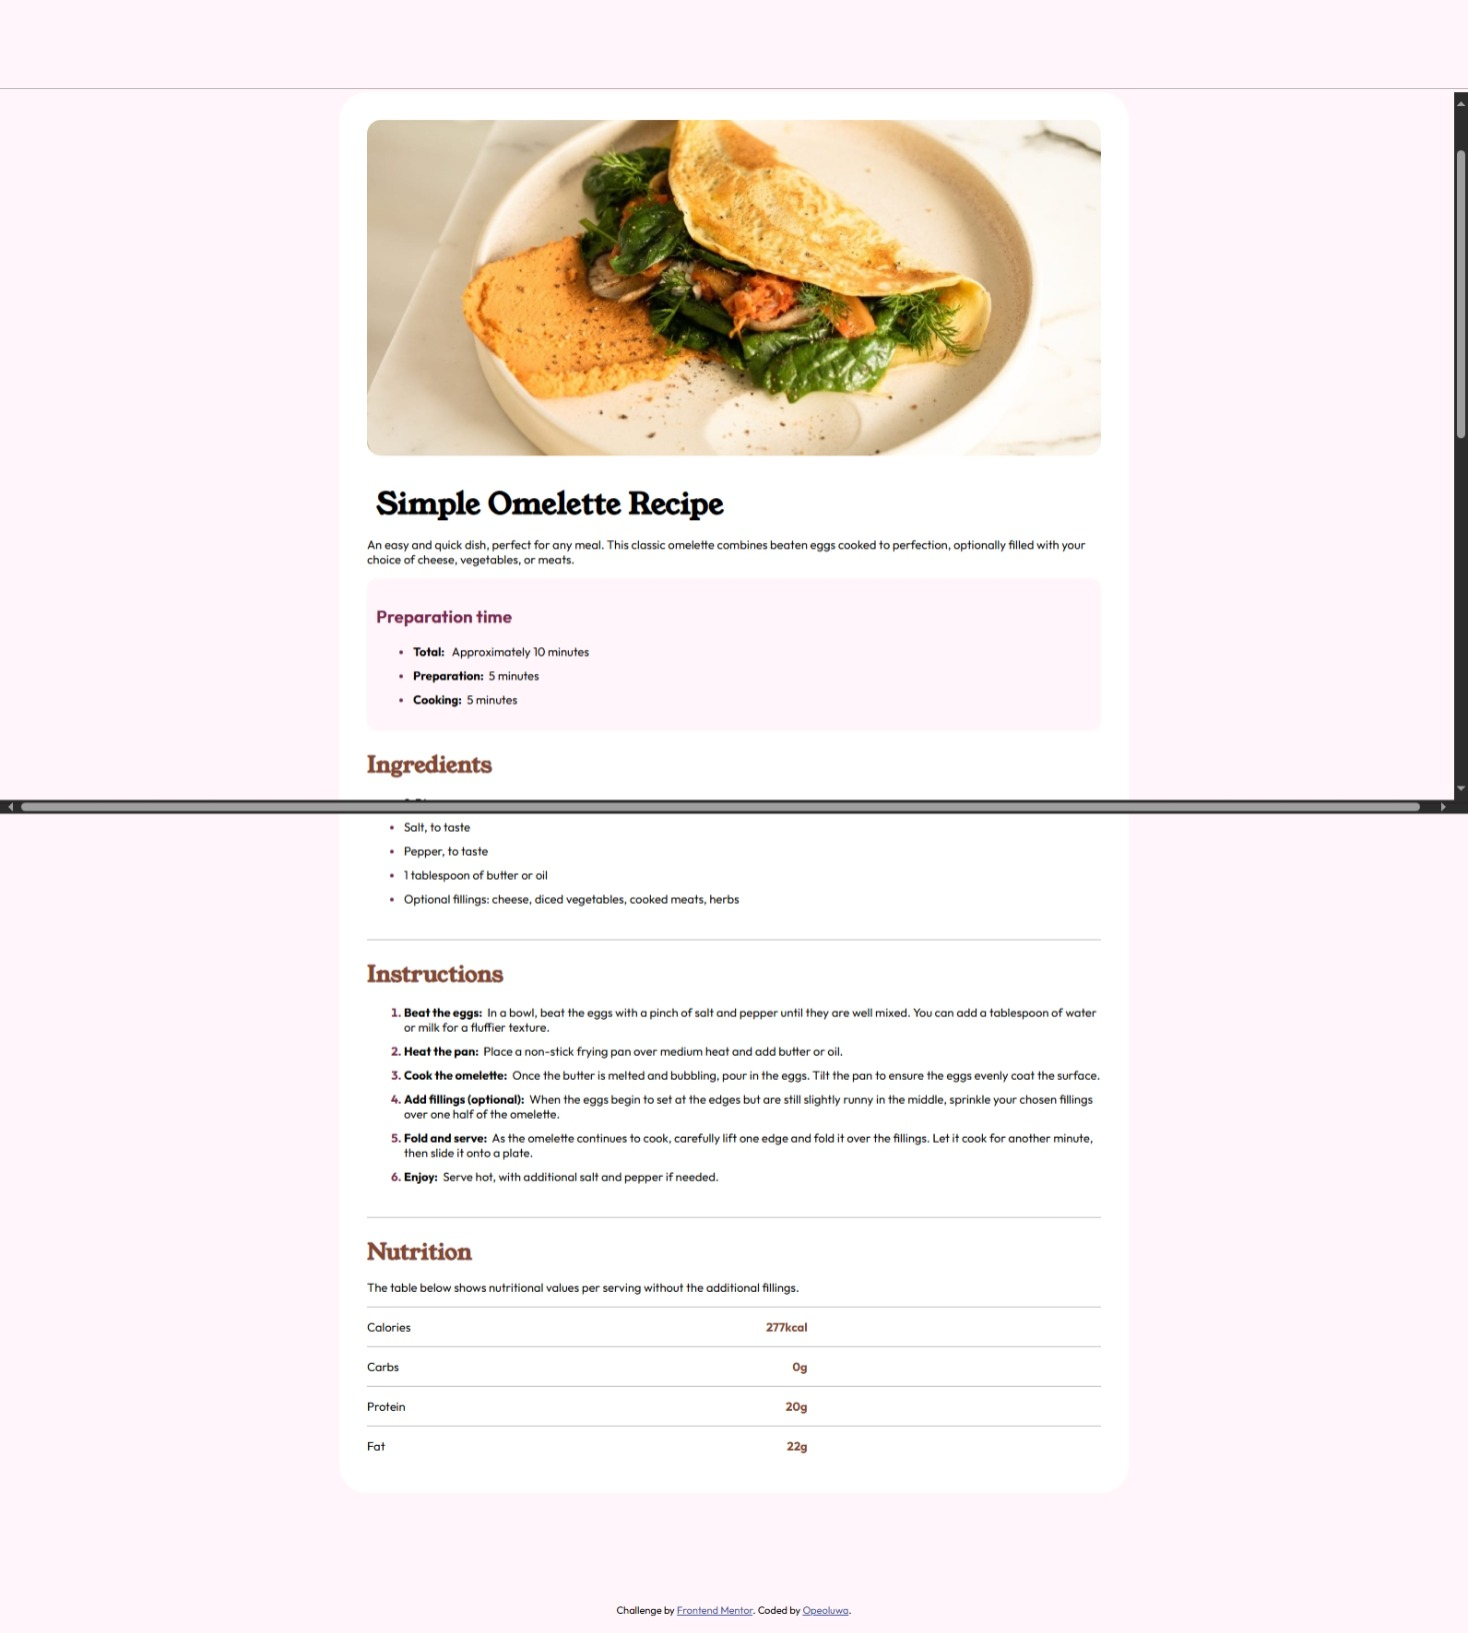
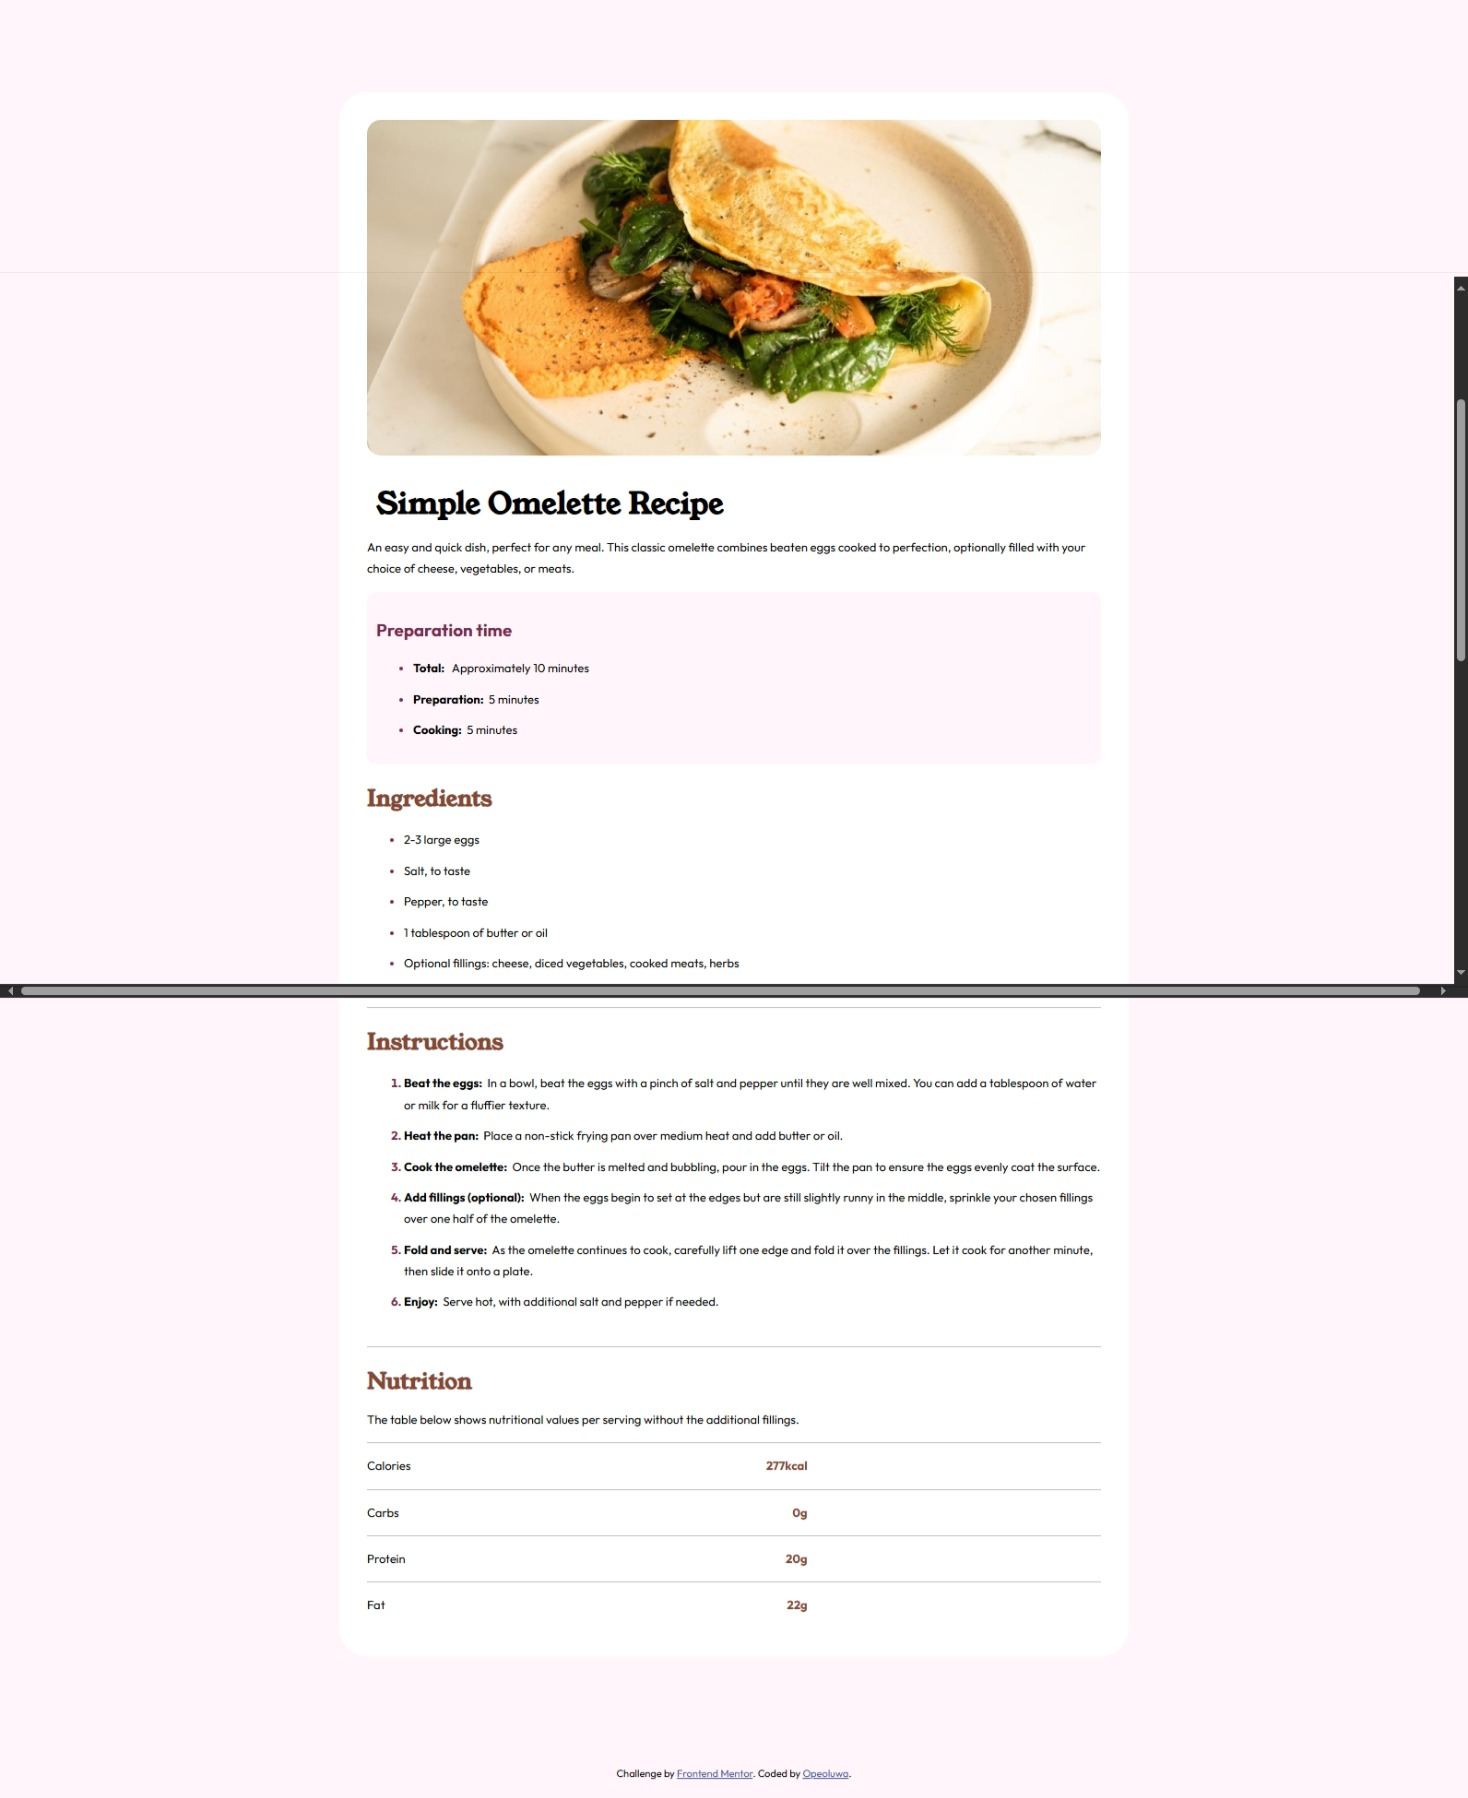
update webpage screenshot

Changed region(s): [[0.0, 0.0625, 1.0, 0.9057], [0.9809, 0.0312, 1.0, 0.2186], [0.9809, 0.2498, 1.0, 0.3748]]

diff --git a/recipe-page-main/styles.css b/recipe-page-main/styles.css
@@ -59,11 +59,13 @@ h3 {
 }
 p {
   font-size: small;
+  line-height: 1.8;
 }
 
 li {
   font-size: small;
   margin: 10px 0;
+  line-height: 1.8;
 }
 
 li::marker {
